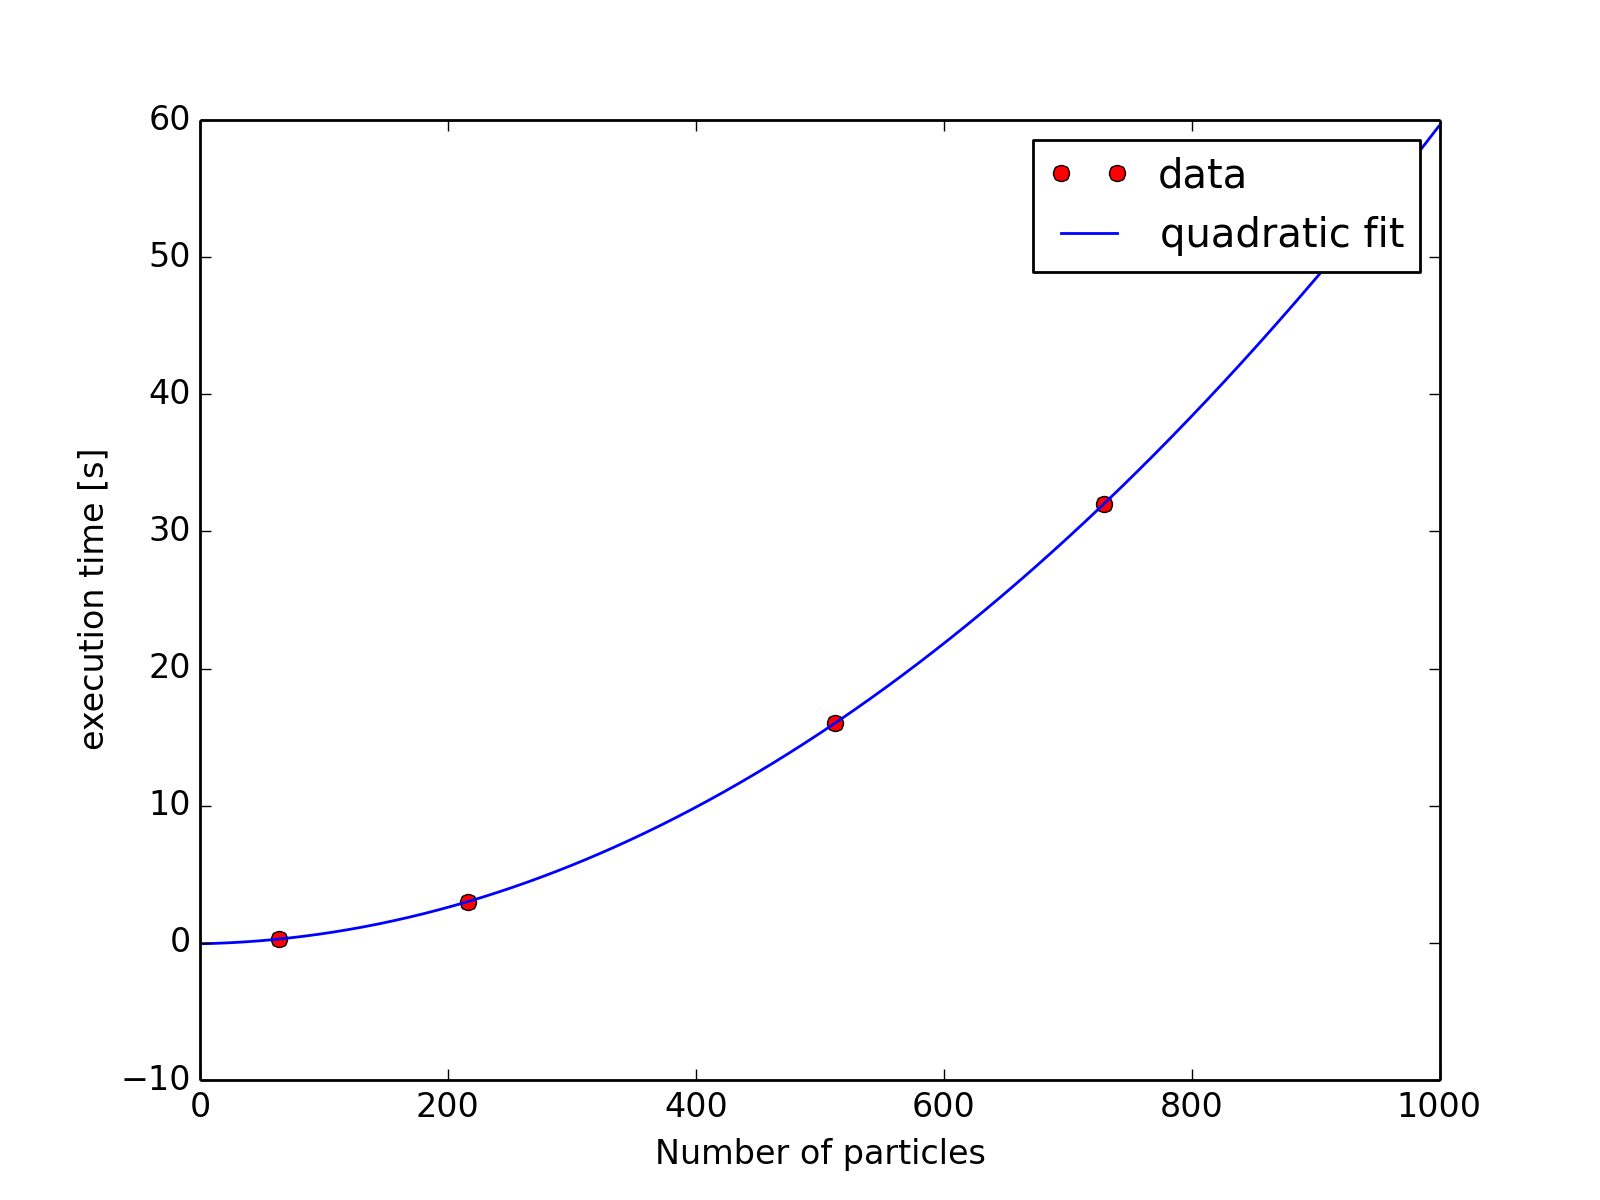
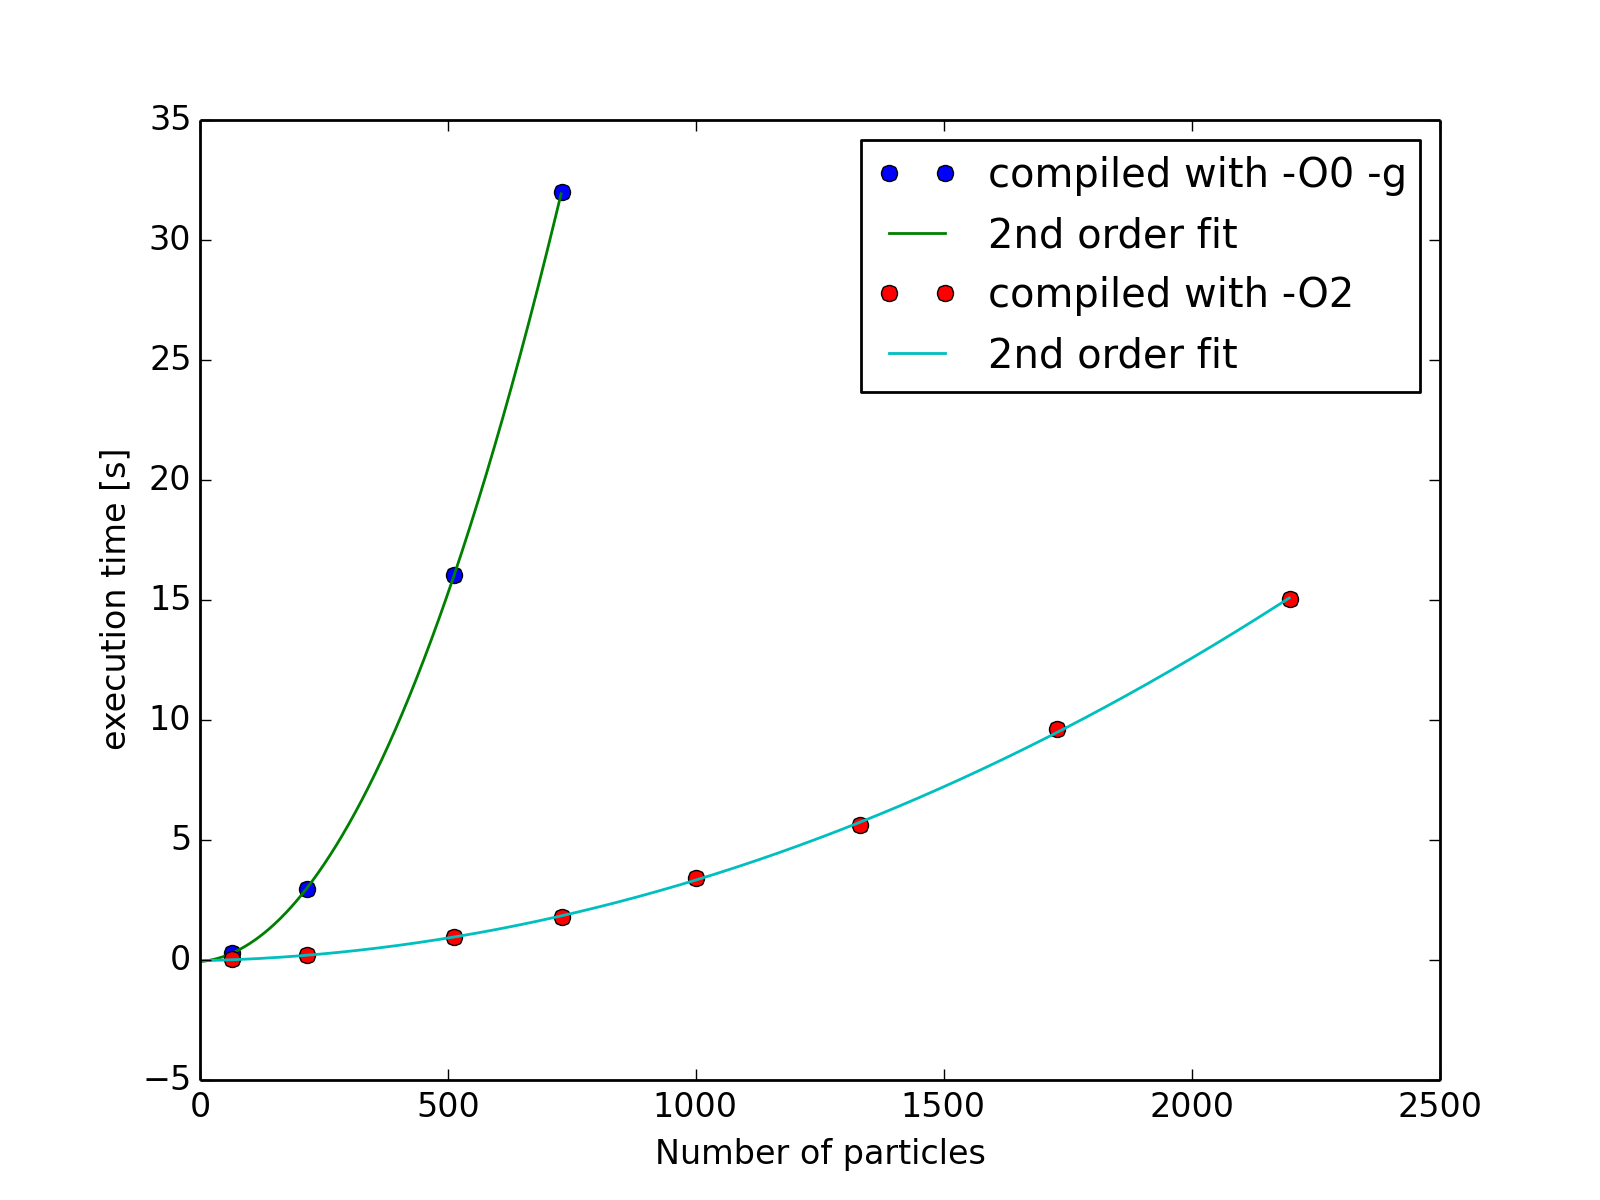
Forgot to turn off debug flags for scaling tests

diff --git a/examples/ex02/plot.py b/examples/ex02/plot.py
@@ -3,28 +3,35 @@
 import numpy as np
 import matplotlib.pyplot as plt
 
-data = np.genfromtxt('timings')
-N, t = zip(*data)
+for fname in ['timings_debug', 'timings_O2']: 
+    data = np.genfromtxt(fname)
+    N, t = zip(*data)
 
-#### Plotting the timings
-plt.xlabel('Number of particles')
-plt.ylabel('execution time [s]')
-#plt.ylim([ eTot[0]*(1-delta), eTot[0]*(1+delta)])
+    #### Plotting the timings
+    plt.xlabel('Number of particles')
+    plt.ylabel('execution time [s]')
+    #plt.ylim([ eTot[0]*(1-delta), eTot[0]*(1+delta)])
 
-plt.plot(N,t,'ro')
-
-
-#### Parabolic fit
-fitpar  = np.polyfit(N,t,2)
-print (fitpar)
-poly    = np.poly1d(fitpar) 
-
-dense = np.arange(0,1000, 1)
-plt.plot(dense, poly(dense))
+    plt.plot(N,t,'o')
 
 
-plt.legend(['data', '2nd order fit'])
+    #### Parabolic fit
+    fitpar  = np.polyfit(N,t,2)
+    print (fitpar)
+    poly    = np.poly1d(fitpar) 
 
-plt.savefig('scaling.png', dpi=200)
+    dense = np.arange(0,N[-1], 1)
+    plt.plot(dense, poly(dense))
+
+
+
+plt.legend(['compiled with -O0 -g', 
+            '2nd order fit',
+           'compiled with -O2',  
+            '2nd order fit'
+            ])
+
+outname='scaling.png'
+plt.savefig(outname, dpi=200)
 
 #plt.show()

diff --git a/doc/report.tex b/doc/report.tex
@@ -118,15 +118,19 @@ More intuitively speaking, hm..
     \label{fig:cons}
 \end{figure}
 
-\item Figure \ref{fig:scal} illustrates the scaling behavior of the unoptimized
-    code. As expected, the execution time is fitted well by a 2nd order 
+\item Figure \ref{fig:scal} illustrates the scaling behavior of the CPU code,
+    once compiled without optimization and once with optimization enabled.
+    While optimization clearly speeds up the code drastically,
+    the execution time of both versions is fitted well by a 2nd order 
     polynomial; the $N^2$ term of course dominating for large $N$.
+
 \begin{figure}[h]
     \centering
-    \includegraphics[width=0.75\textwidth]{images/scaling}
-    \caption{Scaling of execution time versus problem size. 
+    \includegraphics[width=0.80\textwidth]{images/scaling}
+    \caption{Scaling of execution time versus problem size for a simulation
+             time of 1ps (500 steps). 
              The calculations were performed on a single core of a Intel Core i7 
-    processor with a clock frequency of 2.3 GHz.}
+             processor with a clock frequency of 2.3 GHz and compiled with clang++.}
     \label{fig:scal}
 \end{figure}
 

diff --git a/lib/state.cpp b/lib/state.cpp
@@ -41,23 +41,23 @@ inline void State::draw_v(real_t t0) {
     NormalDistribution d = NormalDistribution();
 
     // Draw velocities from normal distribution of appropiate sigma
-    real_t scale;
+    real_t scalef;
     for(size_t i=0; i < N; ++i){
-        scale = sqrt(constants::kB * t0 / (m(i) * constants::mvsq));
+        scalef = sqrt(constants::kB * t0 / (m(i) * constants::mvsq));
         for(size_t r=0; r<3; ++r){
-            v(i,r) = d.draw() * tmp;
+            v(i,r) = d.draw() * scalef;
             eKin += 0.5*m(i)*v(i,r)*v(i,r) * constants::mvsq;
         }
     }
 
     // Impose initial temperature t0 exactly
     real_t t = 2.0 * eKin / ((3.0 * N - 3.0) * constants::kB);
-    real_t r = sqrt(t0/t);
+    scalef = sqrt(t0/t);
 
-    eKin *= r*r;
+    eKin *= scalef*scalef;
     for(size_t i=0; i < N; ++i)
         for(size_t r=0; r<3; ++r)
-            v(i,r) *= r;
+            v(i,r) *= scalef;
 
 }
 

diff --git a/examples/ex02/setup.py b/examples/ex02/setup.py
@@ -26,7 +26,7 @@ cell_z={DIM}
 """ . format(DIM=d)
 
 
-for d in [4,6,8,9]:
+for d in [4,6,8,9,10,11,12,13]:
 
     nat=d**3
     dirname="N" + str(nat)
